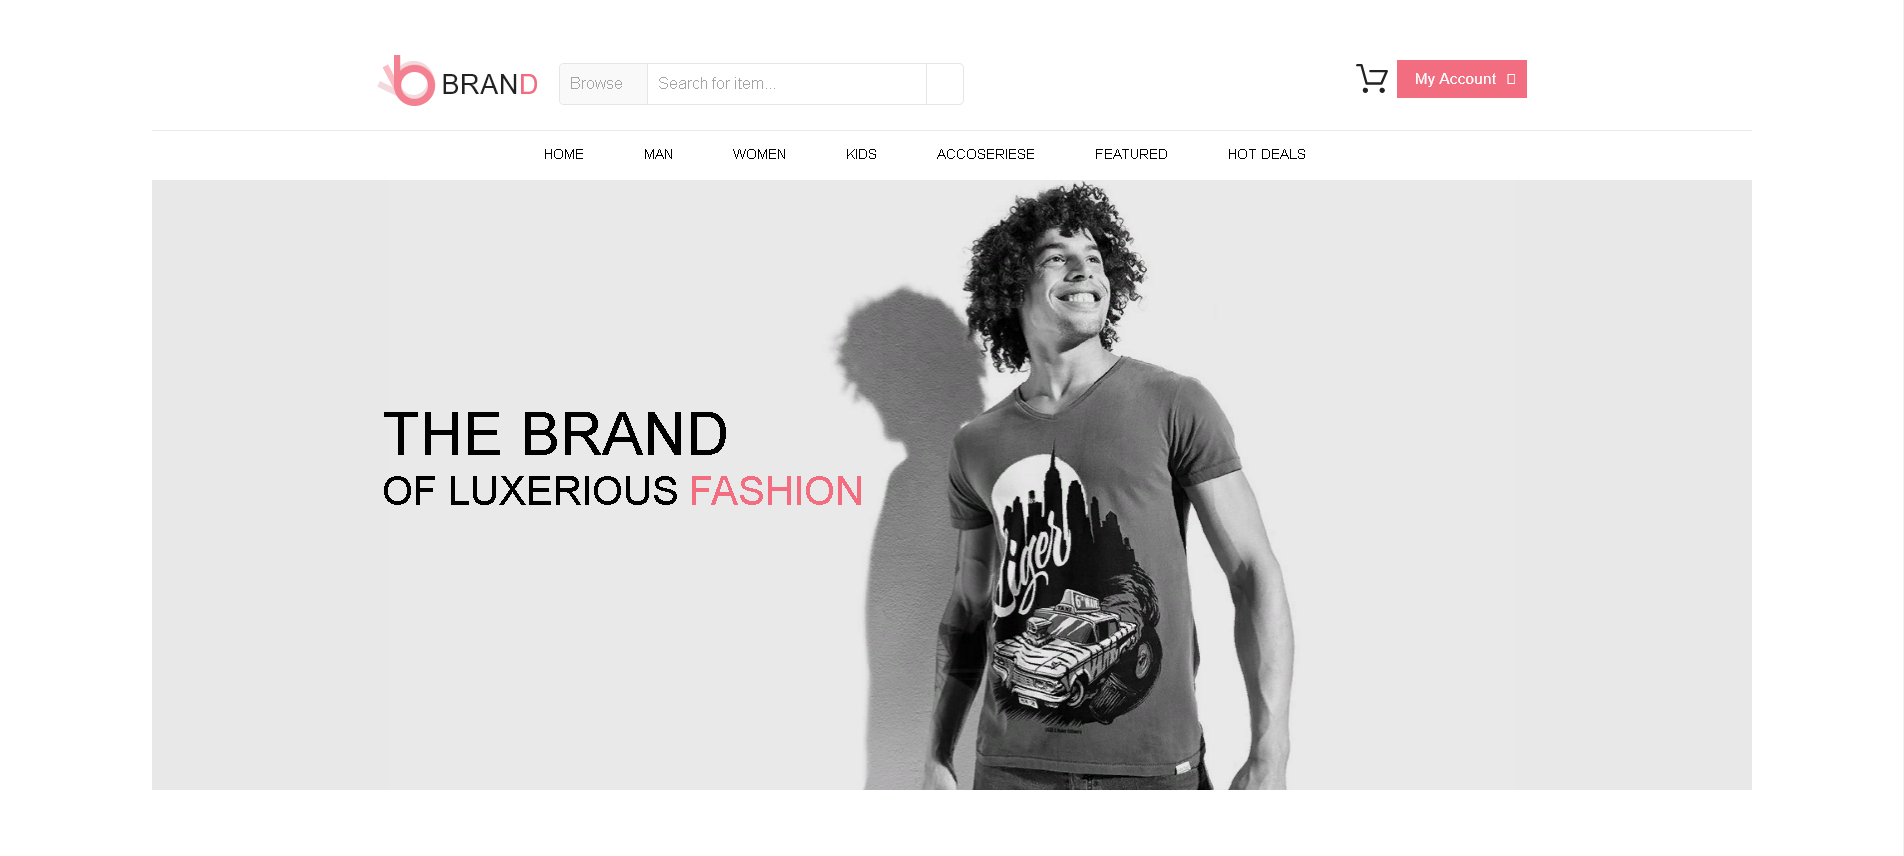
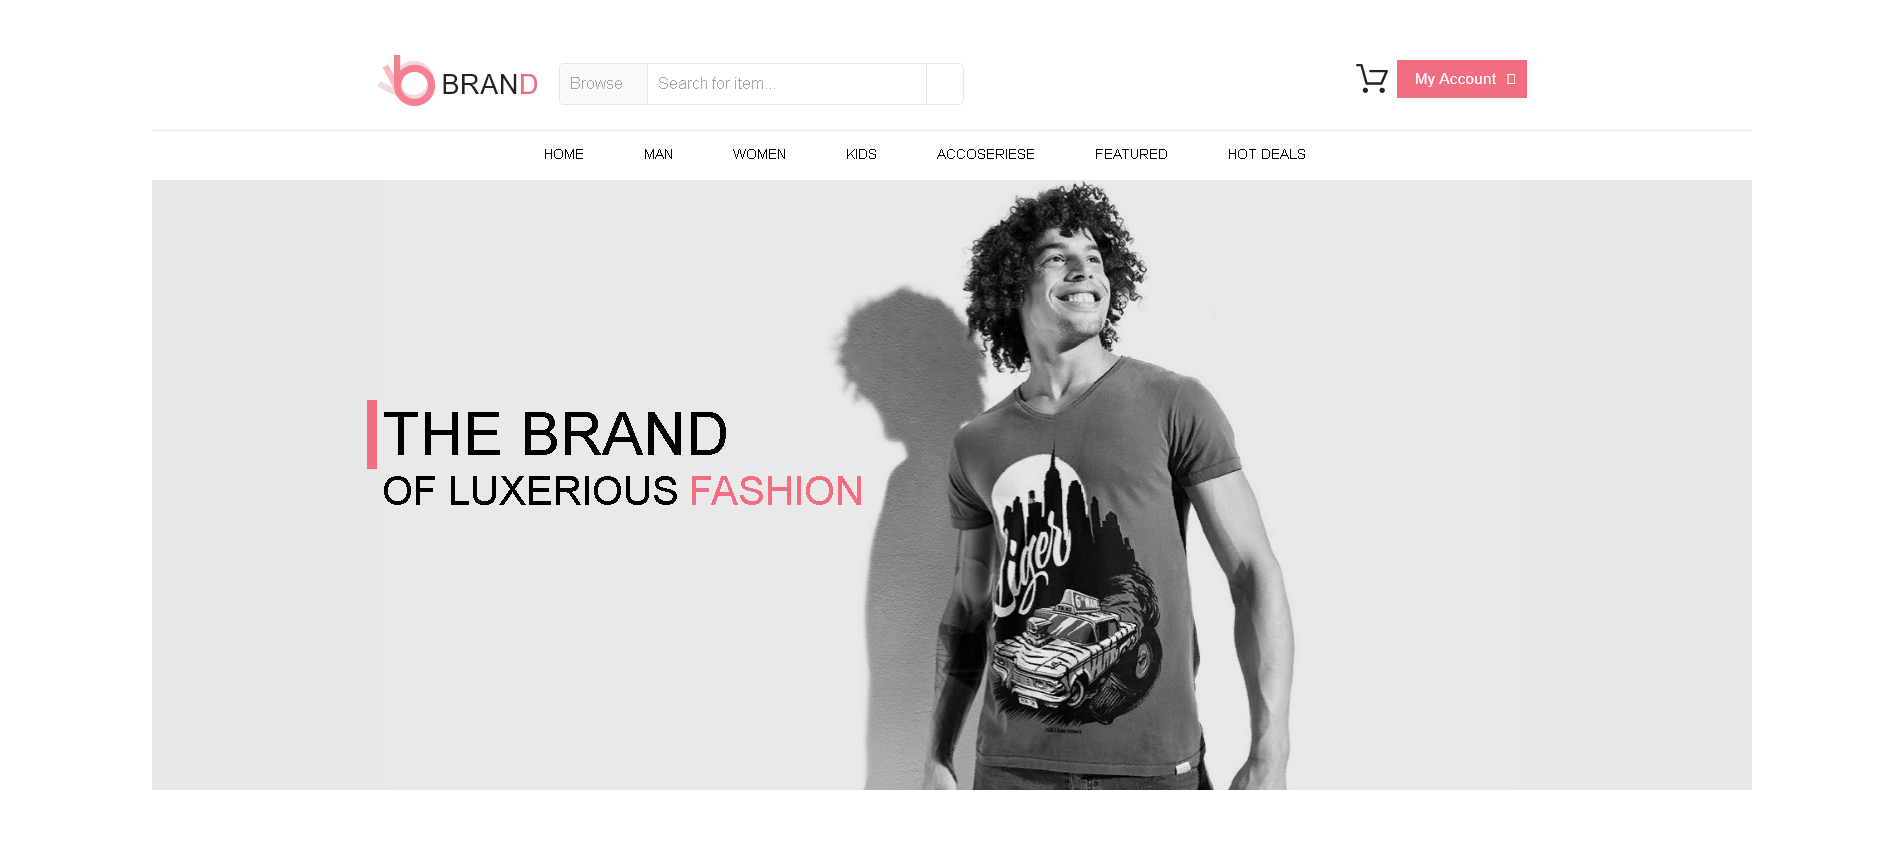
Дз от 25.02

diff --git a/25. Юрлов О/Дз от 25.02/index.html b/25. Юрлов О/Дз от 25.02/index.html
@@ -40,7 +40,7 @@
         
         <div class="one">
             <div class="one_cont">
-                <p class="the_brand">THE BRAND</p>
+                <p class="the_brand" style="border-left: 10px solid #F16D7F; margin-left: -15px;"><span style="padding-left: 5px;">THE BRAND</span></p>
                 <span class="of_lux">OF LUXERIOUS</span><span class="red_fashion">FASHION</span>
             </div>
         </div>
